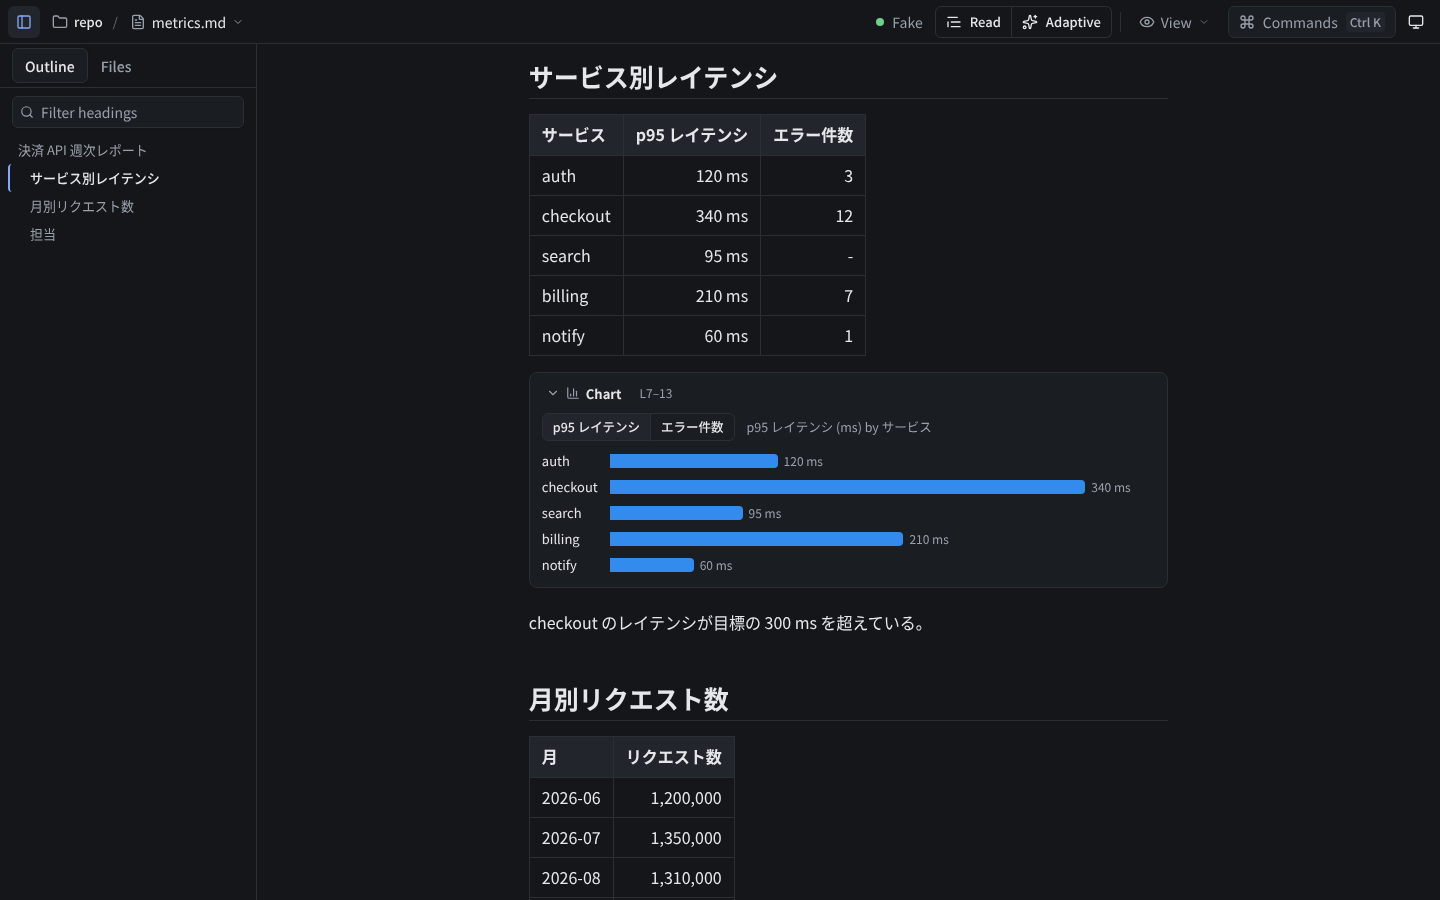
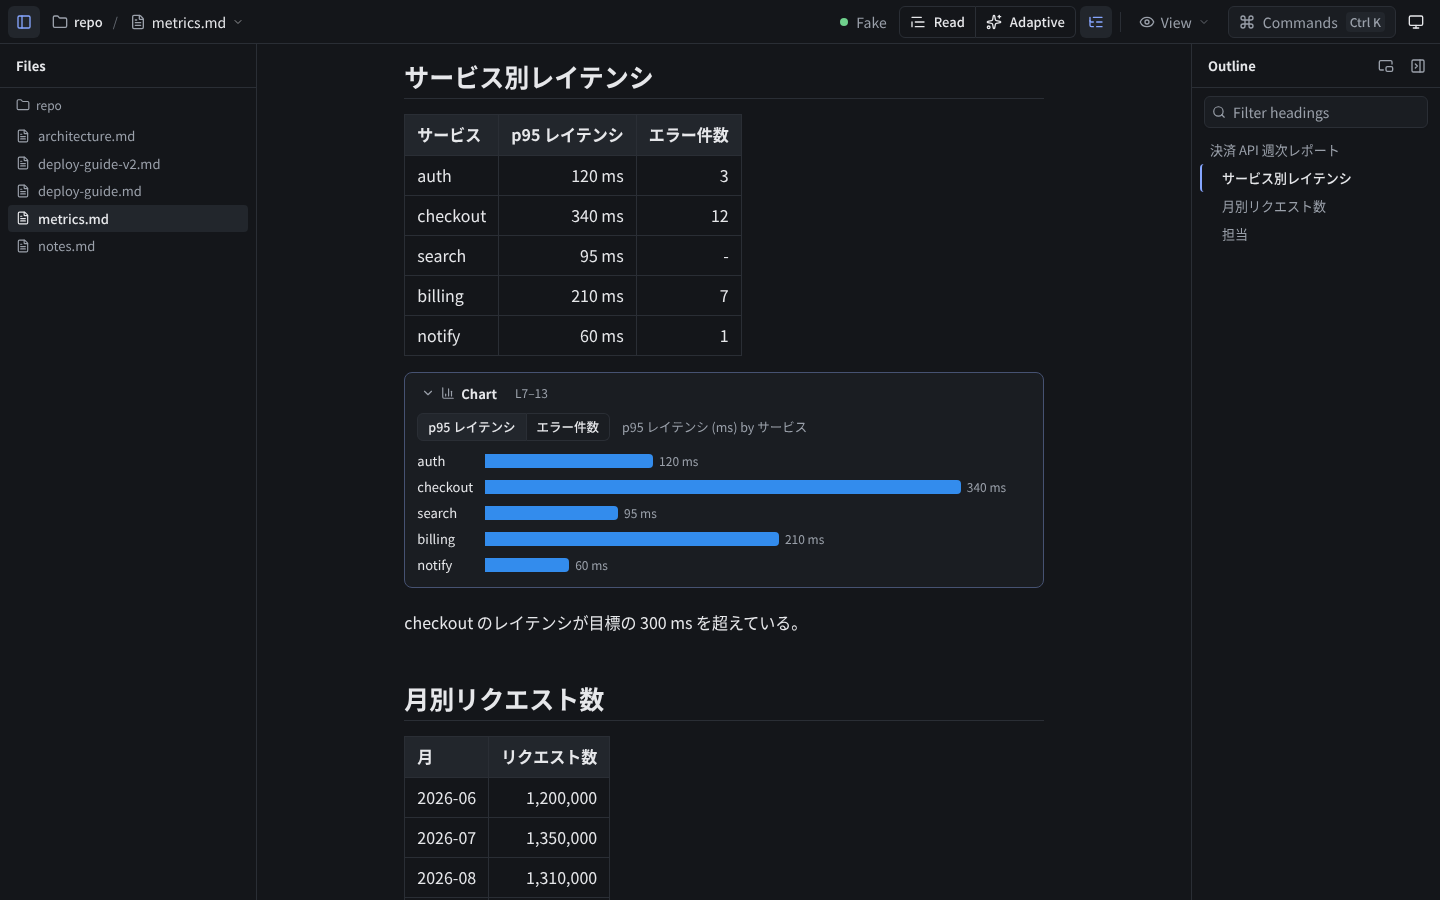
docs: right-side outline (docked / floating) in READMEs, design memo §11.9, screenshots

diff --git a/README.ja.md b/README.ja.md
@@ -47,7 +47,7 @@ mdpeek
 
 ![Adaptive モード: 本文内のチェックリストとステップの操作、ノードグラフで RETRY の行き先をたどる、比較カードを観点で絞る、棒グラフの指標切り替え、折れ線グラフの読み取り、Read モードへの切り替え](docs/design/media/adaptive-tour.gif)
 
-画面は、上部バー（リポジトリ / ファイルのパンくず、選択器の状態、表示モード、**View** メニュー、コマンドパレット、テーマ）、**Outline** と **Files** を持つ左のレール、文書本体で構成されます。Adaptive モードでは、文書の中に*読書補助*が入ります。読書補助は文書から作った小さな widget（ステップ、チェックリスト、コマンド、チャート、ノードグラフ、比較カード、リスク、アクションアイテムなど）で、**抽出元の行の直後に本文の一部として**表示され、それぞれその行にリンクしています。サイドペインはありません。
+画面は、上部バー（リポジトリ / ファイルのパンくず、選択器の状態、表示モード、**View** メニュー、コマンドパレット、テーマ）、左の **Files**、文書本体、右の **Outline** で構成されます。Adaptive モードでは、文書の中に*読書補助*が入ります。読書補助は文書から作った小さな widget（ステップ、チェックリスト、コマンド、チャート、ノードグラフ、比較カード、リスク、アクションアイテムなど）で、**抽出元の行の直後に本文の一部として**表示され、それぞれその行にリンクしています。読書補助用のサイドペインはありません。
 
 | モード | キー | 表示内容 |
 |---|---|---|
@@ -63,10 +63,11 @@ mdpeek
 - widget の ⓘ ボタンで、**なぜ選ばれたか**を確認できます: 選択器とモデル、confidence（確信度）、どれだけ役立つか（helps）、他の候補、fallback の有無。上部バーのドットは、選択器の状態（rules / jev / fake、選択中、fallback、エラー）を常に示します。
 - 読書補助を**固定（pin）**すると本文の先頭（タイトルの下）に移り、**非表示（hide）**にすると隠れます。どちらも文書ごとに記憶されます。隠したものは、本文の上の *n hidden* またはコマンドパレットから戻せます。
 - 編集後に新しい選択が実行されている間も、前回の widget は表示されたままです。古いバージョンのファイルに対する結果が表示されることはありません。
-- レールは、区切りをドラッグするか、区切りにフォーカスして ← / → を押すとサイズを変えられ、`[` で折り畳めます。モード、テーマ、サイズ、折り畳み状態は再読み込み後も保たれます。
+- **Outline**（右）: 見出しのあいまい絞り込みと、スクロールに合わせた現在のセクションの強調。ヘッダーのボタンで文書の上に**フローティング**させられ（ヘッダーをドラッグ、またはグリップにフォーカスして矢印キーで移動）、サイドバーに**ドッキング**し直すこともできます。`]` で表示・非表示を切り替えます。
+- 左右のサイドバーは、区切りをドラッグするか、区切りにフォーカスして ← / → を押すとサイズを変えられます。`[` で Files を折り畳めます。モード、テーマ、サイズ、折り畳み状態、フローティング時の位置は再読み込み後も保たれます。
 - **Files** には現在のブランチの Markdown が並びます。パンくずにはリポジトリ名とブランチ名を表示します。
 - **View** メニューには、**Guided reading**（`g`）、*Follow live changes*（変更箇所に追従）、ショートカット一覧があります。
-- モードを切り替えたりレールを折り畳んだりしても、文書内の読んでいる位置は保たれます。
+- モードを切り替えたりサイドバーを折り畳んだりしても、文書内の読んでいる位置は保たれます。
 - スマートフォン（狭い画面）では、読書補助を含んだ文書が画面いっぱいに表示され、Files / Outline はシートとして開きます。
 
 **キーボードショートカット**（アプリ内では `?` で表示。1 文字のキーはテキスト入力欄にフォーカスがないときに使えます）:
@@ -75,7 +76,8 @@ mdpeek
 |---|---|
 | `Ctrl`+`K`（macOS では `⌘K`） | コマンドパレット: ファイルを開く、見出しへジャンプ、モードやテーマの切り替え、読書補助の選び直し、読書補助の固定 / 非表示 / 再表示 |
 | `1` / `2` | Read / Adaptive |
-| `[` | レールの折り畳み・展開 |
+| `[` | Files の折り畳み・展開 |
+| `]` | Outline の表示・非表示（ドッキング / フローティングとも） |
 | `/` | Outline の見出しを絞り込む |
 | `g` | Guided reading |
 | `t` | 次のテーマ（light → dark → system） |

diff --git a/README.md b/README.md
@@ -48,7 +48,7 @@ The preview updates **in place** as you edit — only the blocks that changed re
 
 ![Adaptive mode: ticking a checklist and stepping through steps inside the text, following a node graph's RETRY exit, focusing comparison cards on one criterion, switching a bar chart's measure, reading a line chart, and switching to Read mode](docs/design/media/adaptive-tour.gif)
 
-The window has a top bar (repository / file breadcrumb, selector status, view mode, a **View** menu, command palette, theme), a left rail with **Outline** and **Files**, and the document. In Adaptive mode the document carries *reading aids*: small widgets (steps, checklists, commands, charts, node graphs, comparison cards, risks, action items, …) built from your document and **set into the text right after the lines they came from**, each linked to those source lines. There is no side pane.
+The window has a top bar (repository / file breadcrumb, selector status, view mode, a **View** menu, command palette, theme), **Files** on the left, the document, and the **Outline** on the right. In Adaptive mode the document carries *reading aids*: small widgets (steps, checklists, commands, charts, node graphs, comparison cards, risks, action items, …) built from your document and **set into the text right after the lines they came from**, each linked to those source lines. There is no reading-aid side pane.
 
 | Mode | Key | What you see |
 |---|---|---|
@@ -64,10 +64,11 @@ The window has a top bar (repository / file breadcrumb, selector status, view mo
 - The ⓘ button on a widget explains **why it was chosen**: selector and model, confidence, how much it helps, the other candidates and any fallback. The dot in the top bar always shows the selector state (rules / jev / fake, choosing, fallback, error).
 - **Pin** an aid to move it to the top of the text (under the title), or **hide** it; both are remembered per document. Bring hidden ones back from *n hidden* above the text or from the command palette.
 - While a new selection runs after an edit, the previous widgets stay visible; results for an older version of the file are never shown.
-- The rail can be resized by dragging the divider or by focusing it and pressing ← / →, and folded away with `[`. Mode, theme, size and fold are remembered across reloads.
+- **Outline** (right): fuzzy heading filter and the current section marked as you scroll. Its header can **float** it over the document — drag the floating panel by its header (or focus its grip and use the arrow keys) — or **dock** it back as a sidebar; `]` hides or shows it.
+- Both sidebars can be resized by dragging the divider or by focusing it and pressing ← / →; `[` folds the Files rail. Mode, theme, sizes, folds and the floating outline's place are remembered across reloads.
 - **Files** lists the Markdown of the branch you are on; the breadcrumb shows the repository and branch.
 - The **View** menu holds **Guided reading** (`g`), *Follow live changes* and the shortcut list.
-- Switching modes or folding the rail keeps your place in the document.
+- Switching modes or folding a sidebar keeps your place in the document.
 - On a phone (narrow screens) the document fills the screen with the aids in it; Files/Outline open as a sheet.
 
 **Keyboard shortcuts** (`?` shows them in the app; single keys work when no text field has focus):
@@ -76,7 +77,8 @@ The window has a top bar (repository / file breadcrumb, selector status, view mo
 |---|---|
 | `Ctrl`+`K` (`⌘K` on macOS) | Command palette: open a file, jump to a heading, switch mode or theme, choose reading aids again, pin / hide / show aids |
 | `1` / `2` | Read / Adaptive |
-| `[` | Fold or unfold the rail |
+| `[` | Fold or unfold the Files rail |
+| `]` | Show or hide the Outline (docked or floating) |
 | `/` | Filter headings in the Outline |
 | `g` | Guided reading |
 | `t` | Next theme (light → dark → system) |

diff --git a/docs/design/jev-adaptive-ui.md b/docs/design/jev-adaptive-ui.md
@@ -418,6 +418,15 @@ kenshu-loop で受入済みの UI を、frontend-design の「批評」手順と
 - **見た目**: イメージの構成(上から下のフロー、点のグリッド、判定ノードの強調、PASS 辺の強調と RETRY の破線 / カードの大きな数字・観点バー・事実行・推奨バッジ)を、本文の hairline 枠と `--series-1` の単色に合わせて作った。モバイルで推奨バッジが選択肢名を 1 文字ずつ折り返させていたのを、見出しの折り返しで修正した。
 - **検証**: Rust 単体テスト(graph 3 件、compare 3 件)、E2E 3 件(レイアウトの段、戻り辺、判定の切り替え、ノード詳細と出典ジャンプ、平均値、事実行、推奨バッジの有無、観点フォーカス、axe light / dark)、スクリーンショット(desktop / mobile × light / dark)。**実 Jev**(jev-1.14.0、無害な fixture)は `architecture.md` で NodeGraph(confidence 1.00 / helps 0.87)と Comparison(0.64 / 0.81)を選び、`metrics.md` では折れ線 Chart(0.84 / 0.80)を選んだ。サービス別レイテンシの棒グラフは confidence がしきい値 0.6 未満として表示しなかった(rules では表示する)。
 
+### 11.9 追加要望: アウトラインを右サイドバーに、フローティング切替(2026-11-27)
+
+読書補助が本文内に入って右側が空いたため、アウトラインを右サイドバーへ移し、左のレールは Files 専用にした(Outline / Files のタブは廃止)。右サイドバーはヘッダーのボタンで「文書の上にフローティング」と「ドッキング」を切り替えられる。
+
+- **ドッキング**: `react-resizable-panels` の 3 枚目の collapsible パネル。`]` で表示 / 非表示、区切りのドラッグや ← / → でサイズ変更し、幅を保存する。フローティング中はパネルを幅 0 に畳み、区切りをドラッグして開くとドッキングに戻る。
+- **フローティング**: 文書列の上に重なる非モーダルの小パネル(幅 264px、最大 60vh、文書のスクロールに追従しない)。ヘッダーをドラッグ(pointer capture)するか、グリップボタンにフォーカスして矢印キーで 24px ずつ動かせる。位置は文書列の右上からのオフセットとして保存し、列が狭くなったときは CSS の `min()` / `max()` と JS の両方で列内に収める。
+- 状態は `outlineCollapsed` / `outlineSize` / `outlineFloating` / `outlineFloatPos` として保存する。旧 `railTab` は読み込み時に捨てる。モバイルは従来どおり Files / Outline のシート。
+- **検証**: E2E にドッキングの表示 / 非表示・サイズの保存、フローティングの表示・スクロール追従しないこと・スクロールスパイ・ドラッグとキー操作での移動・再読み込み後の位置・ドッキング復帰を追加した。全キーボード巡回テストもドッキング / フローティングの両方で行い、全停止点にフォーカス表示があることを確認した。スクリーンショットは `*-desktop-outline-floating.png`。
+
 ## 12. ベンチマーク(実測, 2026-11-27)
 
 環境: NixOS / Chrome 158(Playwright, headless)/ release ビルド。ベースライン = `308e537`(起点ブランチ)。数値は 7 回の中央値。`docs/sample-design-doc.md`、rules。
